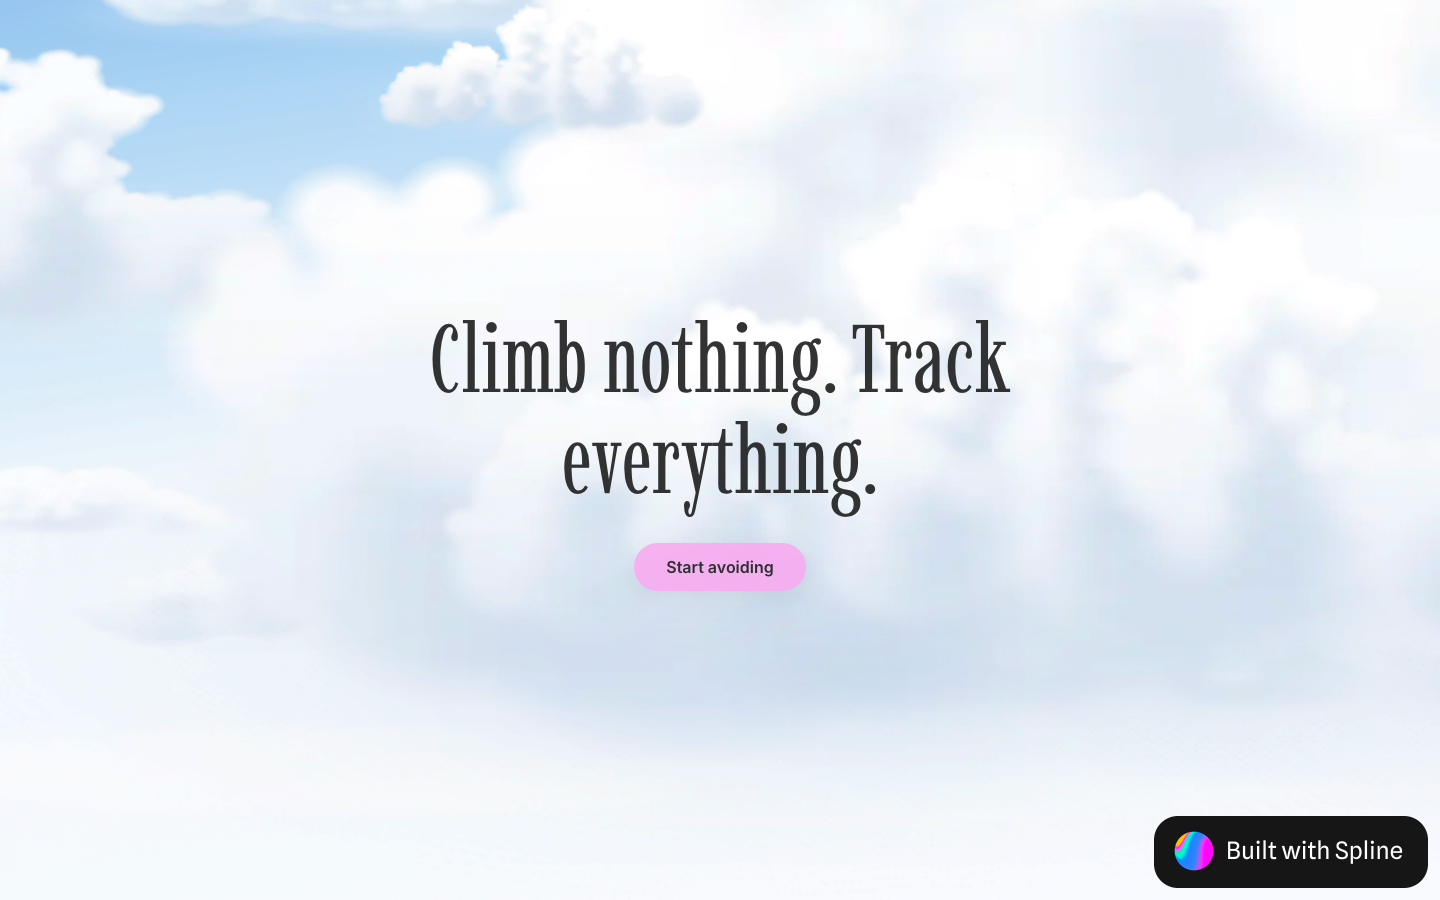
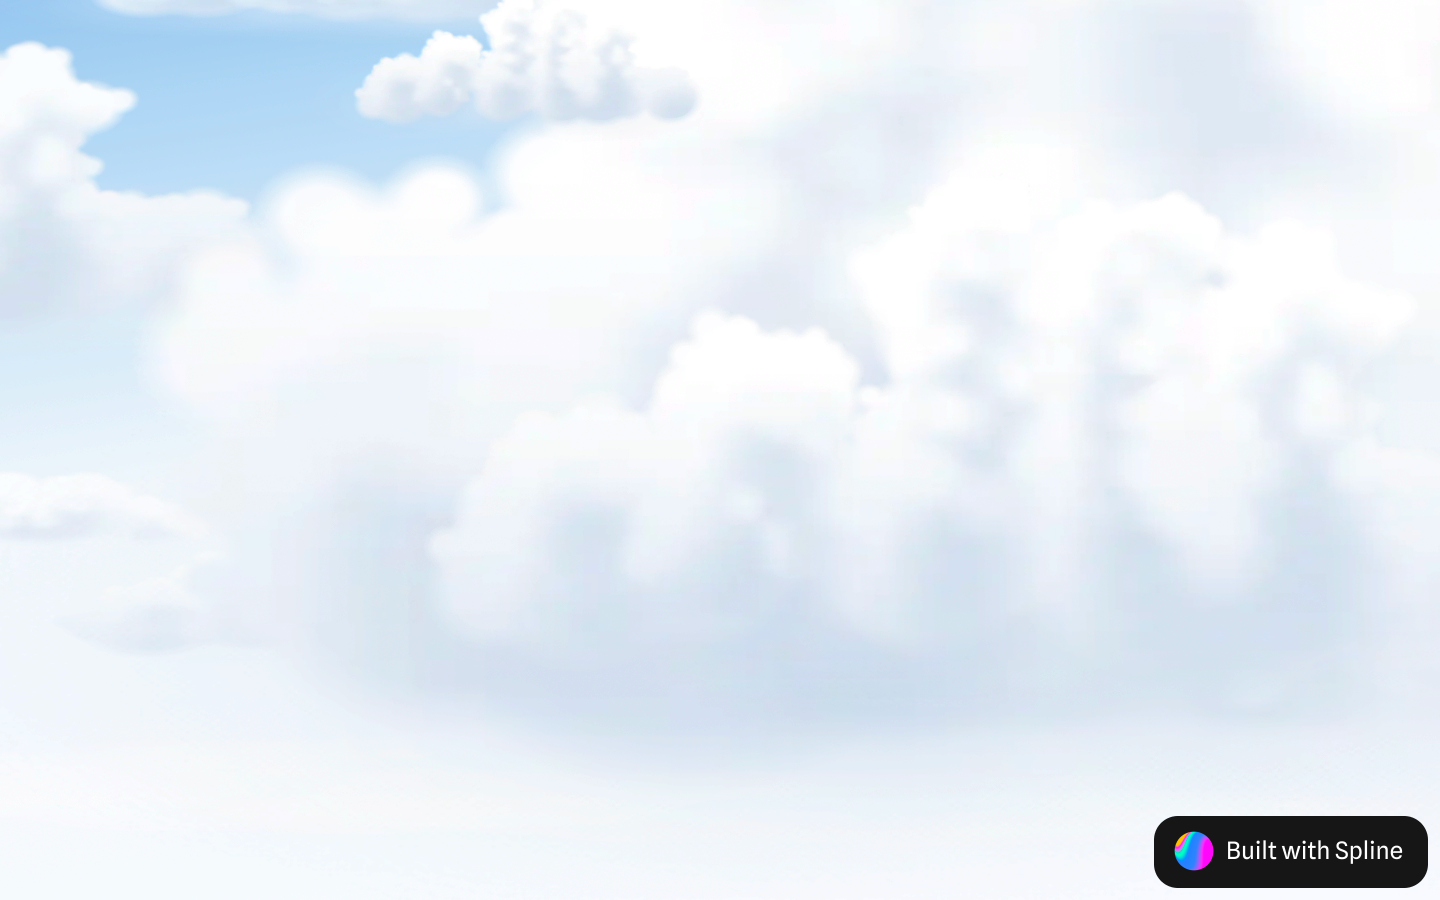
Intro to hero: slower 3.2 s reveal, headline after the hills

diff --git a/src/scroll.js b/src/scroll.js
@@ -53,8 +53,10 @@ window.addEventListener('intro:lines', (event) => {
   const done = event.detail.done;
   gsap.killTweensOf(gate);
   if (done && event.detail.instant) { gate.value = 1; applyCamera(); return; }
-  // Opening: an unhurried 1.2 s so the clouds part and the hills rise. Closing (back into the intro): quick.
-  gsap.to(gate, { value: done ? 1 : 0, duration: done ? 1.2 : 0.3, ease: done ? 'power2.inOut' : 'power2.out', onUpdate: applyCamera });
+  // Opening the view to the hills: unhurried, but with a strong middle so it still feels like a swoop
+  // (power3.inOut: eases away from the clouds, sweeps, then lands softly). Closing (back into the intro): quick.
+  const reveal = (parseFloat(getComputedStyle(document.documentElement).getPropertyValue('--duration-hero-reveal')) || 2400) / 1000;
+  gsap.to(gate, { value: done ? 1 : 0, duration: done ? reveal : 0.3, ease: done ? 'power3.inOut' : 'power2.out', onUpdate: applyCamera });
 });
 
 const straight = (from, to, t) => ({ rotX: mix(from.rotX, to.rotX, t), y: mix(from.y, to.y, t), z: mix(from.z, to.z, t) });
@@ -64,7 +66,8 @@ const SEGMENTS = [
   // Intro, pinned: the camera sinks through the clouds while the four parts take turns.
   { trigger: '#intro', start: 'top top', end: 'bottom bottom', from: POSES.introStart, to: POSES.introEnd },
   // Intro scrolls away: the camera pulls back fast and drops, the clouds fly off and the hills rise into view.
-  { trigger: '#intro', start: 'bottom bottom', end: 'bottom top', from: POSES.introEnd, to: POSES.hero, path: swoop },
+  // It trails the scrollbar by a full second, so even a quick scroll becomes an unhurried glide.
+  { trigger: '#intro', start: 'bottom bottom', end: 'bottom top', from: POSES.introEnd, to: POSES.hero, path: swoop, smoothing: 1 },
 ];
 const progress = SEGMENTS.map(() => 0);
 let nudge = 0; // small extra progress used by the idle "dip" in intro.js
@@ -199,7 +202,7 @@ export function initScroll() {
         if (segment.onProgress) segment.onProgress(self.progress);
         applyCamera();
       };
-      ScrollTrigger.create({ trigger: segment.trigger, start: segment.start, end: segment.end, scrub: SMOOTHING, onUpdate: update, onRefresh: update });
+      ScrollTrigger.create({ trigger: segment.trigger, start: segment.start, end: segment.end, scrub: segment.smoothing || SMOOTHING, onUpdate: update, onRefresh: update });
     });
   }
 }

diff --git a/src/styles/sections/intro.css b/src/styles/sections/intro.css
@@ -105,8 +105,13 @@
      Leaving the state fades the text out and the hero in. */
   .js .intro__lines { transition: opacity var(--duration-fast) var(--ease-exit); }
   .is-intro-lingering .intro__stage { position: fixed; inset: 0; z-index: var(--z-content); }
-  .js .hero__content { transition: opacity var(--duration-base) var(--ease-enter); }
-  .is-intro-lingering .hero__content { opacity: 0; transition: none; }
+  /* Hero headline: arrives after the camera, rising slightly (background first, then text) */
+  .js .hero__content {
+    transition:
+      opacity var(--duration-hero-in) var(--ease-enter) var(--delay-hero-in),
+      transform var(--duration-hero-in) var(--ease-enter) var(--delay-hero-in);
+  }
+  .is-intro-lingering .hero__content { opacity: 0; transform: translateY(var(--shift-hero-in)); transition: none; }
   .is-intro-leaving .intro__lines { opacity: 0; }
 
   /* Cloud wisps in front of the text, so the lines look like they float among clouds.

diff --git a/src/styles/tokens.css b/src/styles/tokens.css
@@ -85,6 +85,12 @@
   --duration-opening: 2000ms;              /* fly-out from the clouds to the first view (read by scroll.js) */
   --scale-opening-fallback: 1.4;           /* static image starts zoomed in this much (read by scroll.js) */
 
+  /* Intro to hero */
+  --duration-hero-reveal: 3200ms;          /* clouds part and the hills rise (read by scroll.js) */
+  --delay-hero-in: 2000ms;                 /* headline waits until the hills have mostly landed */
+  --duration-hero-in: 800ms;
+  --shift-hero-in: 24px;                   /* headline rises this much as it arrives */
+
   /* Layers */
   --z-scene: 0;
   --z-content: 1;

diff --git a/design/page-spec.md b/design/page-spec.md
@@ -23,7 +23,7 @@ Motion:
 - Trigger: scroll only (wheel, swipe, arrow keys, Space). No timer advances the page.
 - The intro stays pinned while the reader scrolls through 4.4 screens. Only one part is visible at a time.
 - Each part owns a quarter of the intro. When its quarter reaches the middle of the screen, the part is revealed: it fades in, rises 30px and comes out of an 8px blur over 0.8 s. The part before it fades out in 0.2 s first.
-- Scrolling is never locked: the camera and clouds follow the scroll as before. Only the text is locked into a sequence: lines play strictly in order, one at a time, and each stays for its full reveal plus a short rest (about 1.2 s) before the next may replace it. The lines share the first 75% of the pinned scroll; the last 25% is runway so the final line finishes before the intro ends. If the reader scrolls past the intro before the last line has played, the scroll and the camera carry on while the text stays on screen, but the camera stays in the clouds (sinking and drifting forward). The hills belong to the hero only: once the last line has had its time, the clouds part and the hills rise in over 1.2 s, and the hero headline fades in. The page only holds if the reader reaches the hero before that. Scrolling back up is free. Skip intro bypasses everything.
+- Scrolling is never locked: the camera and clouds follow the scroll as before. Only the text is locked into a sequence: lines play strictly in order, one at a time, and each stays for its full reveal plus a short rest (about 1.2 s) before the next may replace it. The lines share the first 75% of the pinned scroll; the last 25% is runway so the final line finishes before the intro ends. If the reader scrolls past the intro before the last line has played, the scroll and the camera carry on while the text stays on screen, but the camera stays in the clouds (sinking and drifting forward). The hills belong to the hero only: once the last line has had its time, the clouds part and the hills rise in over 3.2 s (soft start, strong middle, soft landing). The hero headline follows 2 s later, as the hills settle, fading in and rising 24px over 0.8 s. When the reader scrolls through this stretch instead, the camera trails the scroll by 1 s so it still glides. The page only holds if the reader reaches the hero before that. Scrolling back up is free. Skip intro bypasses everything.
 - Soft cloud wisps float in front of the text: four translucent wisps rise through the screen with the scroll, each passing over the text at a different point (about one per line), so the lines look like they float among clouds. They sway sideways slowly on their own. Not shown with reduced motion.
 - The camera descends through the clouds at an even pace: it follows the scroll, but never runs ahead of the lines. Each line unlocks an equal quarter of the descent, spread over the time the line is on screen, so a fast scroll gives a steady glide instead of a jump and a freeze. Scrolling up reverses it.
 - After 6 s idle: the camera dips so the hero headline peeks above the bottom edge, then settles back.

diff --git a/design/decisions.md b/design/decisions.md
@@ -100,3 +100,9 @@
 - The Scroll label waits until the opening is done. No opening on return visits, with a link target, or with reduced motion.
 - New tokens: --color-cloud-cover, --duration-opening, --scale-opening-fallback.
 - Fix: reloading restored the old scroll position (the intro raced through its lines from there) and counted as a return visit (no opening). Now the browser's scroll restore is off and a reload replays the intro from the top with the opening. A new visit after reaching the hero still starts at the hero.
+
+## 2026-11-17 · Intro to hero: slower, still dynamic
+- Measured before: the move from clouds to hills took 0.9 s and the headline arrived with it.
+- Now: 3.2 s with power3.inOut (2.4 s was tried first: visible move 1.6 s, headline landed before the camera) (eases out of the clouds, sweeps through the middle, lands softly). Scrolling through it, the camera trails by 1 s instead of 0.5 s.
+- Choreography: background first, then text. The hero headline starts 2 s into the move and fades in while rising 24px over 0.8 s.
+- New tokens: --duration-hero-reveal, --delay-hero-in, --duration-hero-in, --shift-hero-in.
